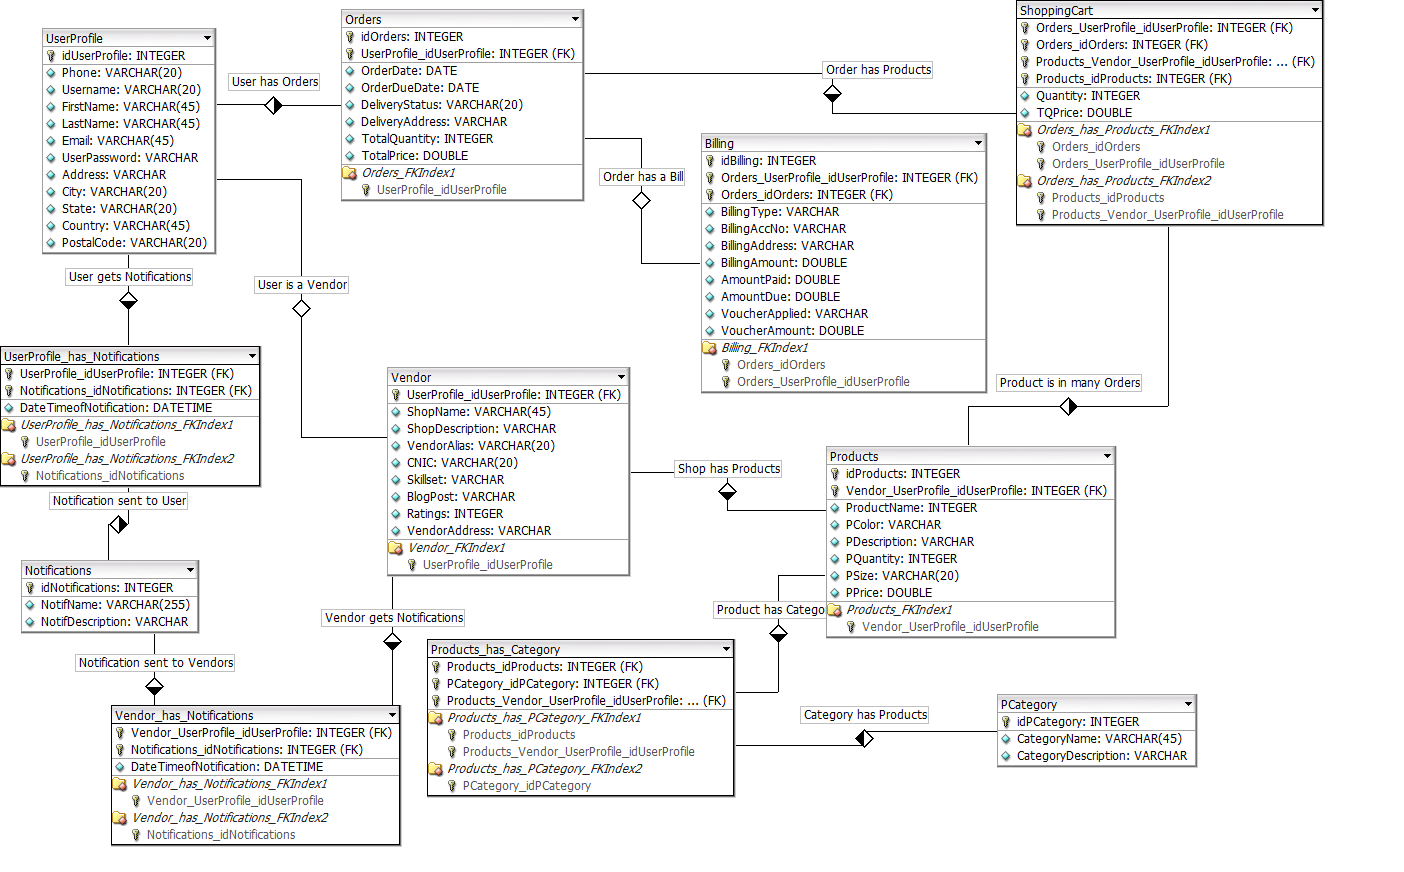
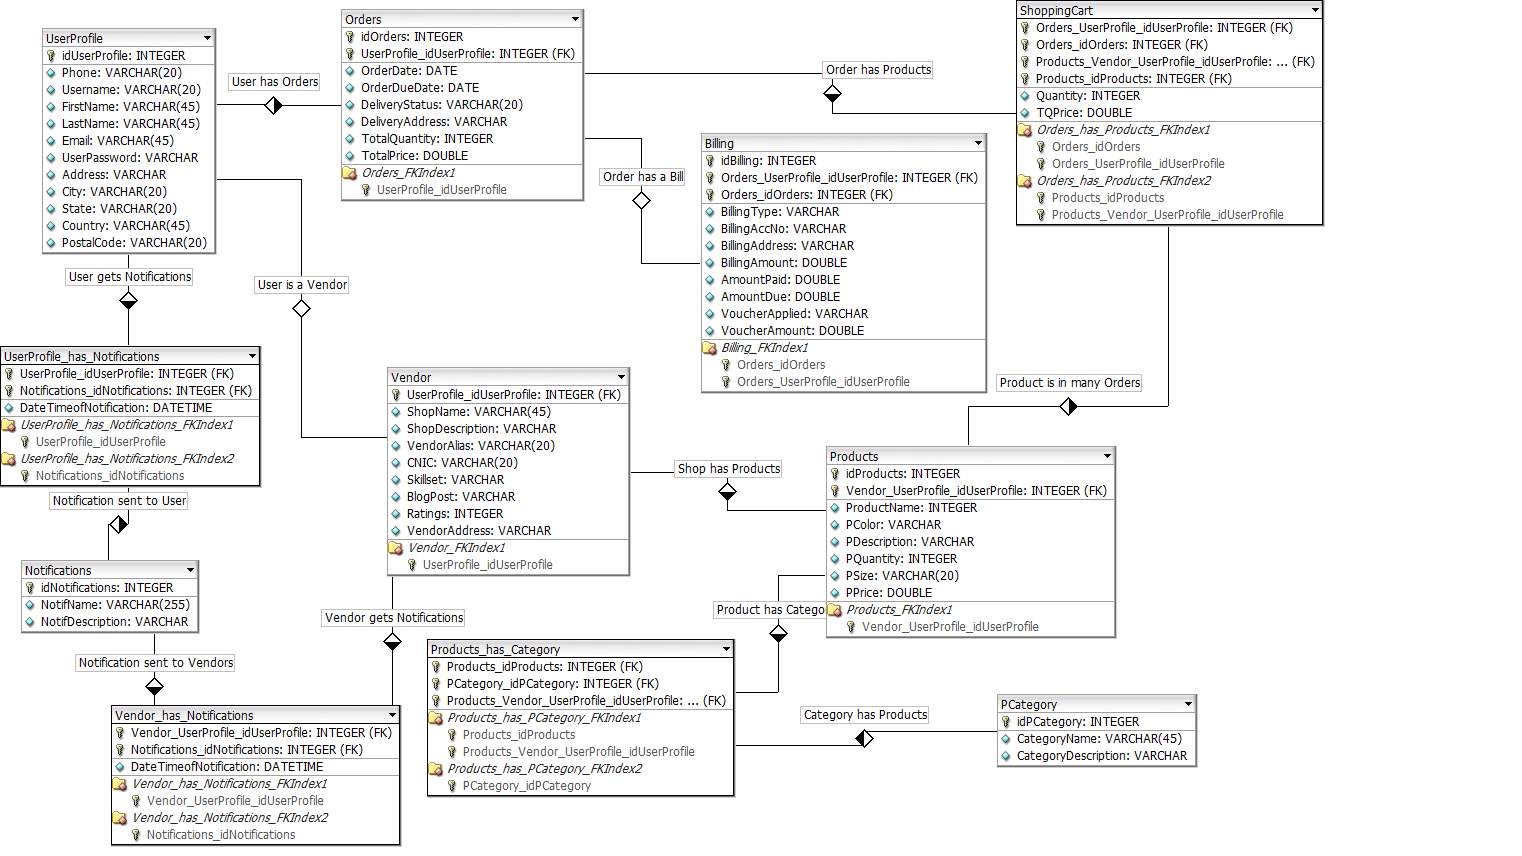
Updated ERD

Changed region(s): [[0.0, 0.0, 0.9494, 1.0], [0.6432, 0.3645, 0.7044, 0.3949], [0.7657, 0.6682, 0.7963, 0.6986]]

diff --git a/Kaavish Report/chapters/review.tex b/Kaavish Report/chapters/review.tex
@@ -80,6 +80,8 @@ In order to look at the technical details of websites, we reviewed certain acade
 
 
 
+
+
 \section{Summary of Literature}
 
 As discussed in detail in this Literature Review, the three major domains that this project lies in, i.e. the employment problems of the marginalized communities, the condition and opennes of handicraft industry, and the rising yet less-equipped E-commerce industry, of Pakistan have been worked upon by multiple national and international researchers. The academic work present however, do not talk about the intersection of all three domains as such. The work done on the intersection of the latter two topics is also present but there persists a knowledge gap when we look at the first research domain, i.e. the employment problems of the marginalized communities in relation with the latter two. This document has tried to look at all the three domains in relation with each other to form a better understanding of the theme of the project itself. This is also to note that in the existing literature the variable of performing arts in relation with e-commerce isn't discussed at all, which is one of the aim of this project at a fairly later stage. 

diff --git a/Kaavish Report/chapters/sds.tex b/Kaavish Report/chapters/sds.tex
@@ -11,6 +11,6 @@ This section presents the UML class diagram and gives a brief description of eac
 This section presents the structure of our database that caters to persistent data storage in our project. The structure is shown as a normalized data model for relational databases. It clearly shows entities, attributes, relationships with their cardinalities, and primary and foreign keys. We have used DB designer (or any other similar data modeling tool) to build our data model.
 \begin{figure}
   \caption{ERD: The Third Space}
-  \includegraphics[width=0.75\textwidth]{TheThirdSpaceERD.png}
+  \includegraphics[width=1.25\textwidth]{TheThirdSpaceERD.png}
   \centering
 \end{figure}
